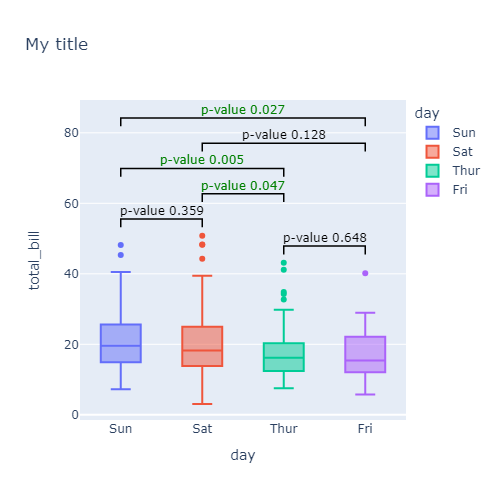
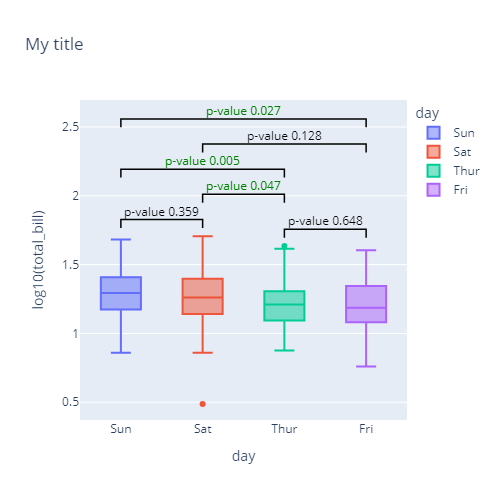
log only on visualization

diff --git a/src/tap/tap.py b/src/tap/tap.py
@@ -51,6 +51,7 @@ def plot_stats(
 
     #ALL X INSIDE DATAFRAME
     all_x = list(df[x].unique())
+    y_plot = y
 
     #ORDER ELEMENTS
     if order is None:
@@ -78,11 +79,11 @@ def plot_stats(
 
       new_column_name = f"log10({y})"
       df[new_column_name] = df[y].apply(lambda x: funzione_scaling(x))
-      y = new_column_name
+      y_plot = new_column_name
 
     #CALCULATE VERTICAL MIN, MAX AND SINGLE UNIT
-    v_min = min(df[y].values)
-    v_max = max(df[y].values)
+    v_min = min(df[y_plot].values)
+    v_max = max(df[y_plot].values)
     v_unit = (v_max - v_min) * 0.1
 
     #FIND ALL GROUP
@@ -111,7 +112,7 @@ def plot_stats(
     info_data = dict()
     for _index, _single_group in enumerate(all_groups):
         if subcategory is None:
-            _values = df[df[x] == _single_group][y].values
+            _values = df[df[x] == _single_group][y_plot].values
             if len(_values) > 0:
                 info_data[_single_group] = {
                     "max": max(_values),
@@ -119,7 +120,7 @@ def plot_stats(
                     "index_subclass": _index
                 }
         else:
-            _values = df[ (df[x] == _single_group[0]) & (df[subcategory] == _single_group[1]) ][y].values
+            _values = df[ (df[x] == _single_group[0]) & (df[subcategory] == _single_group[1]) ][y_plot].values
             if len(_values) > 0:
                 info_data[_single_group] = {
                     "max": max(_values),
@@ -131,9 +132,9 @@ def plot_stats(
     fig=None
     match type_plot:
         case "box": 
-            fig = px.box(df, x=x, y=y, color=(x if subcategory is None else subcategory), category_orders={f"{x}": order}, **kwargs)
+            fig = px.box(df, x=x, y=y_plot, color=(x if subcategory is None else subcategory), category_orders={f"{x}": order}, **kwargs)
         case "strip":
-            fig = px.strip(df, x=x, y=y, color=(x if subcategory is None else subcategory), category_orders={f"{x}": order}, **kwargs)
+            fig = px.strip(df, x=x, y=y_plot, color=(x if subcategory is None else subcategory), category_orders={f"{x}": order}, **kwargs)
 
     dunn_values = {}
     #In case of Dunn generate Map

diff --git a/README.md b/README.md
@@ -136,7 +136,7 @@ tap.plot_stats(df, x, y, filename="images/export_1.png", export_size=(800, 400, 
 ---
 **Kwargs**: Through the **kwargs** parameter you can pass a key/value pairs directly to the plotly function, such as the size of the figure, or a title
 ```python
-tap.plot_stats(df, x, y, kwargs={"width":500, "height":500, "title": "My title"})
+tap.plot_stats(df, x, y, kwargs={"width":500, "height":500, "title": "My title", "log_y": True})
 ```
 ![img](images/example_kwargs.png)
 
